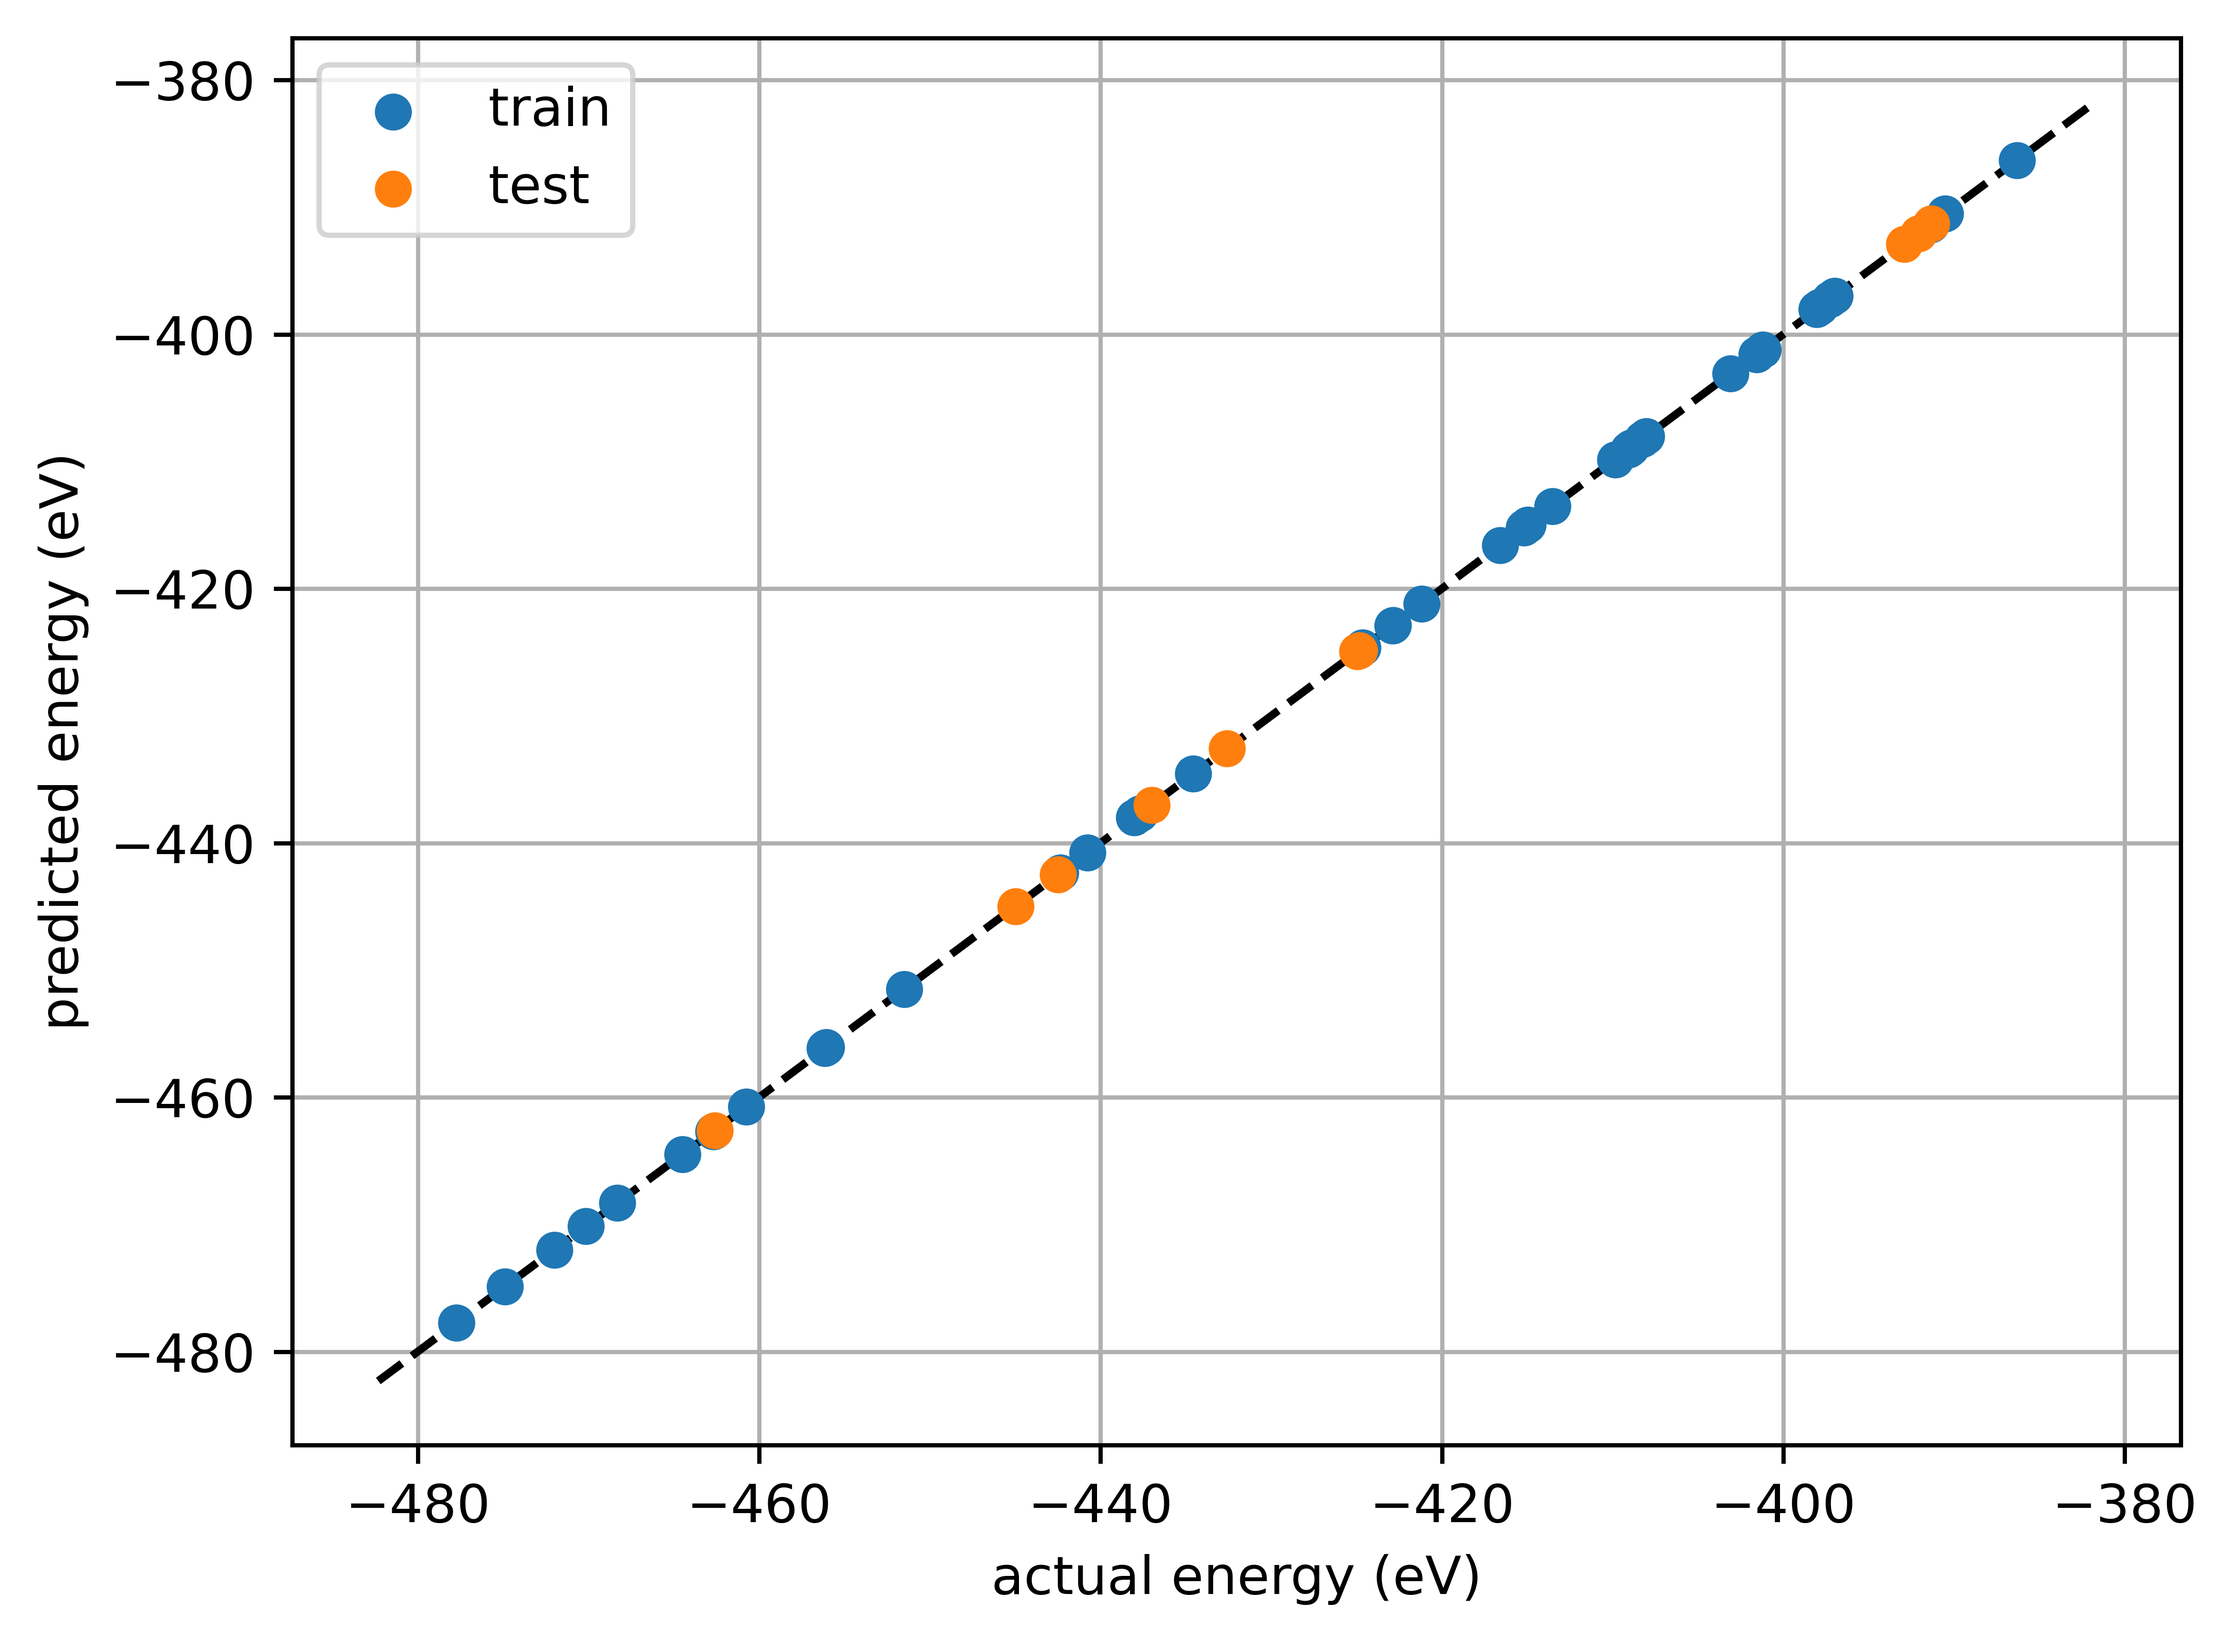
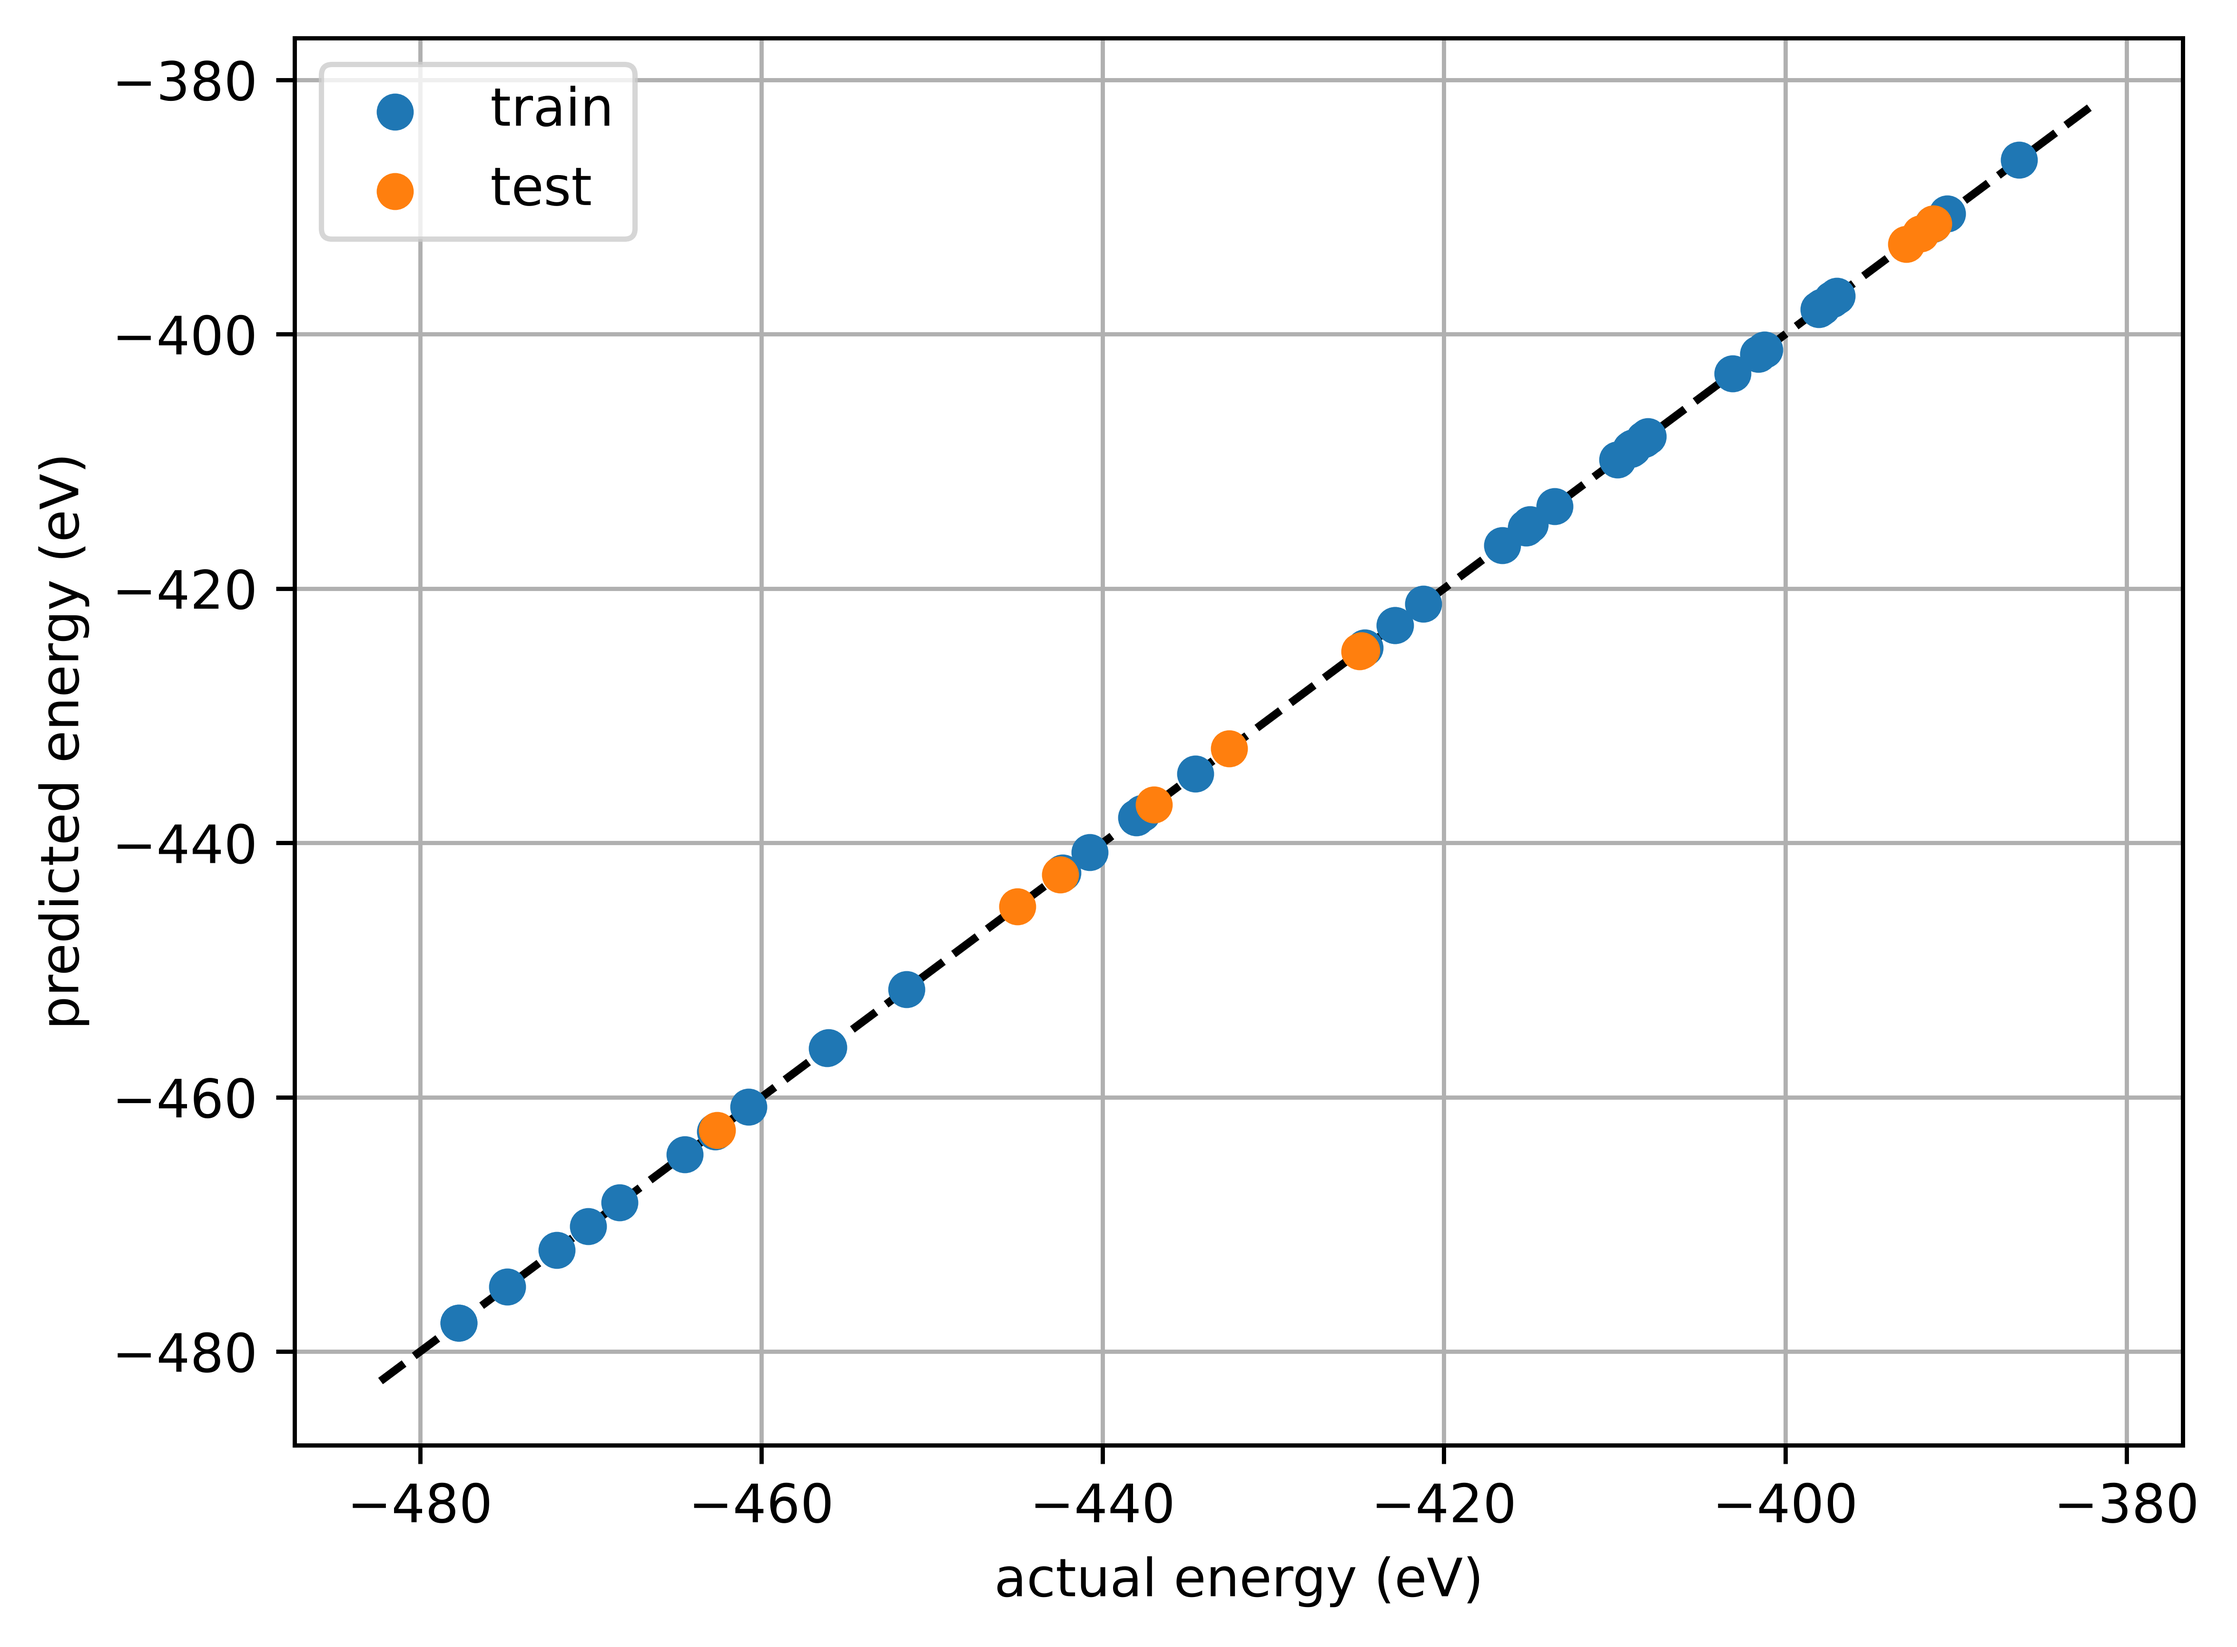
use calculate subclass method

diff --git a/tce/calculator.py b/tce/calculator.py
@@ -14,7 +14,7 @@ import warnings
 from pathlib import Path
 import pickle
 
-from ase.calculators.calculator import Calculator
+from ase.calculators.calculator import Calculator, all_changes, PropertyNotImplementedError
 from ase import Atoms
 from ase.data import atomic_numbers
 import numpy as np
@@ -218,6 +218,8 @@ class TCECalculator(Calculator):
 
     def __post_init__(self):
 
+        Calculator.__init__(self)
+
         if not self.intensive:
             self.intensive = {"energy": False}
 
@@ -275,6 +277,9 @@ class TCECalculator(Calculator):
             if body_order >= 3:
                 num_features = len(self.feature_groups[body_order])
                 self.feature_vector_size += num_features * (num_species ** body_order)
+
+        self.implemented_properties = list(self.models.keys())
+    
 
     def get_feature_label_order(self) -> list[tuple[tuple[int, ...], tuple[str, ...]]]:
 
@@ -638,25 +643,29 @@ class TCECalculator(Calculator):
 
         raise NotImplementedError
 
-
-    def get_property(
+    def calculate(
         self,
-        name: str, 
-        atoms: Optional[Atoms] = None, 
-        allow_calculation: bool = True
+        atoms: Optional[Atoms] = None,
+        properties=['energy'],
+        system_changes=all_changes
     ):
 
-        if atoms is None:
-            raise ValueError("Please provide an Atoms object")
+        Calculator.calculate(self, atoms, properties, all_changes)
 
-        feature_vec = self.get_feature_vector(atoms)
-        if self.intensive[name]:
-            feature_vec /= len(atoms)
+        for name in properties:
 
-        prop = self.models[name].predict(feature_vec.reshape(1, -1))
-        if isinstance(prop, np.ndarray):
-            prop = prop.squeeze()
-        return prop
+            if name not in self.implemented_properties:
+                raise PropertyNotImplementedError(f"property {name} not included in models")
+
+            feature_vec = self.get_feature_vector(atoms)
+            if self.intensive[name]:
+                feature_vec /= len(atoms)
+
+            prop = self.models[name].predict(feature_vec.reshape(1, -1))
+            if isinstance(prop, np.ndarray):
+                prop = prop.squeeze()
+            
+            self.results[name] = prop
 
 
     def train(self, configurations: list[Atoms]):

diff --git a/tce/__init__.py b/tce/__init__.py
@@ -197,9 +197,9 @@ Note that the curve is continuous, which denotes no phase transitions at the tem
 phase diagrams - CuNi forms a solid solution along the whole composition range below the melting point.
 
 <div style="text-align: center;">
-  <a href="https://sv.rkriz.net/classes/MSE2094_NoteBook/96ClassProj/OLD/examples/cu_ni.jpg">
+  <a href="https://www.doitpoms.ac.uk/miclib/phase_diagrams/imagesPD/CuNi2.png">
     <img
-      src="https://sv.rkriz.net/classes/MSE2094_NoteBook/96ClassProj/OLD/examples/cu_ni.jpg"
+      src="https://www.doitpoms.ac.uk/miclib/phase_diagrams/imagesPD/CuNi2.png"
       width="50%"
       alt="CuNi phase diagram"
       title="CuNi"
@@ -207,7 +207,7 @@ phase diagrams - CuNi forms a solid solution along the whole composition range b
   </a>
 </div>
 
-Image credit: Ron Kriz, MSE 2094 @ Virginia Tech ([url](https://sv.rkriz.net/classes/MSE2094_NoteBook/96ClassProj/OLD/examples/cu-ni.html))
+Image credit: DoITPoMS @ University of Cambridge ([url](https://www.doitpoms.ac.uk/miclib/phase_diagrams.php?id=11))
 
 ## 💻 Custom Training (Advanced)
 

diff --git a/test_lib.py b/test_lib.py
@@ -153,6 +153,28 @@ def test_no_energy_computation_raises_attribute_error():
         calc.train(configurations)
 
 
+def test_ase_calculator_api_initializes_state():
+
+    class DummyModel:
+        def predict(self, X):
+            return np.zeros(X.shape[0])
+
+    atoms = build.bulk("Fe", crystalstructure="bcc", a=2.7, cubic=True).repeat((2, 2, 2))
+
+    calc = TCECalculator(
+        models={"energy": DummyModel()},
+        neighbor_cutoffs=[0.5 * np.sqrt(3.0) * 2.7],
+        many_body_features=[],
+        species=["Fe"]
+    )
+
+    energy = calc.get_potential_energy(atoms)
+
+    assert energy == 0.0
+    assert calc.atoms is not None
+    assert calc.results["energy"] == 0.0
+
+
 @pytest.mark.parametrize("preset_dataset", PresetDataset)
 def test_can_load_and_compute_energies_from_dataset(preset_dataset):
 
